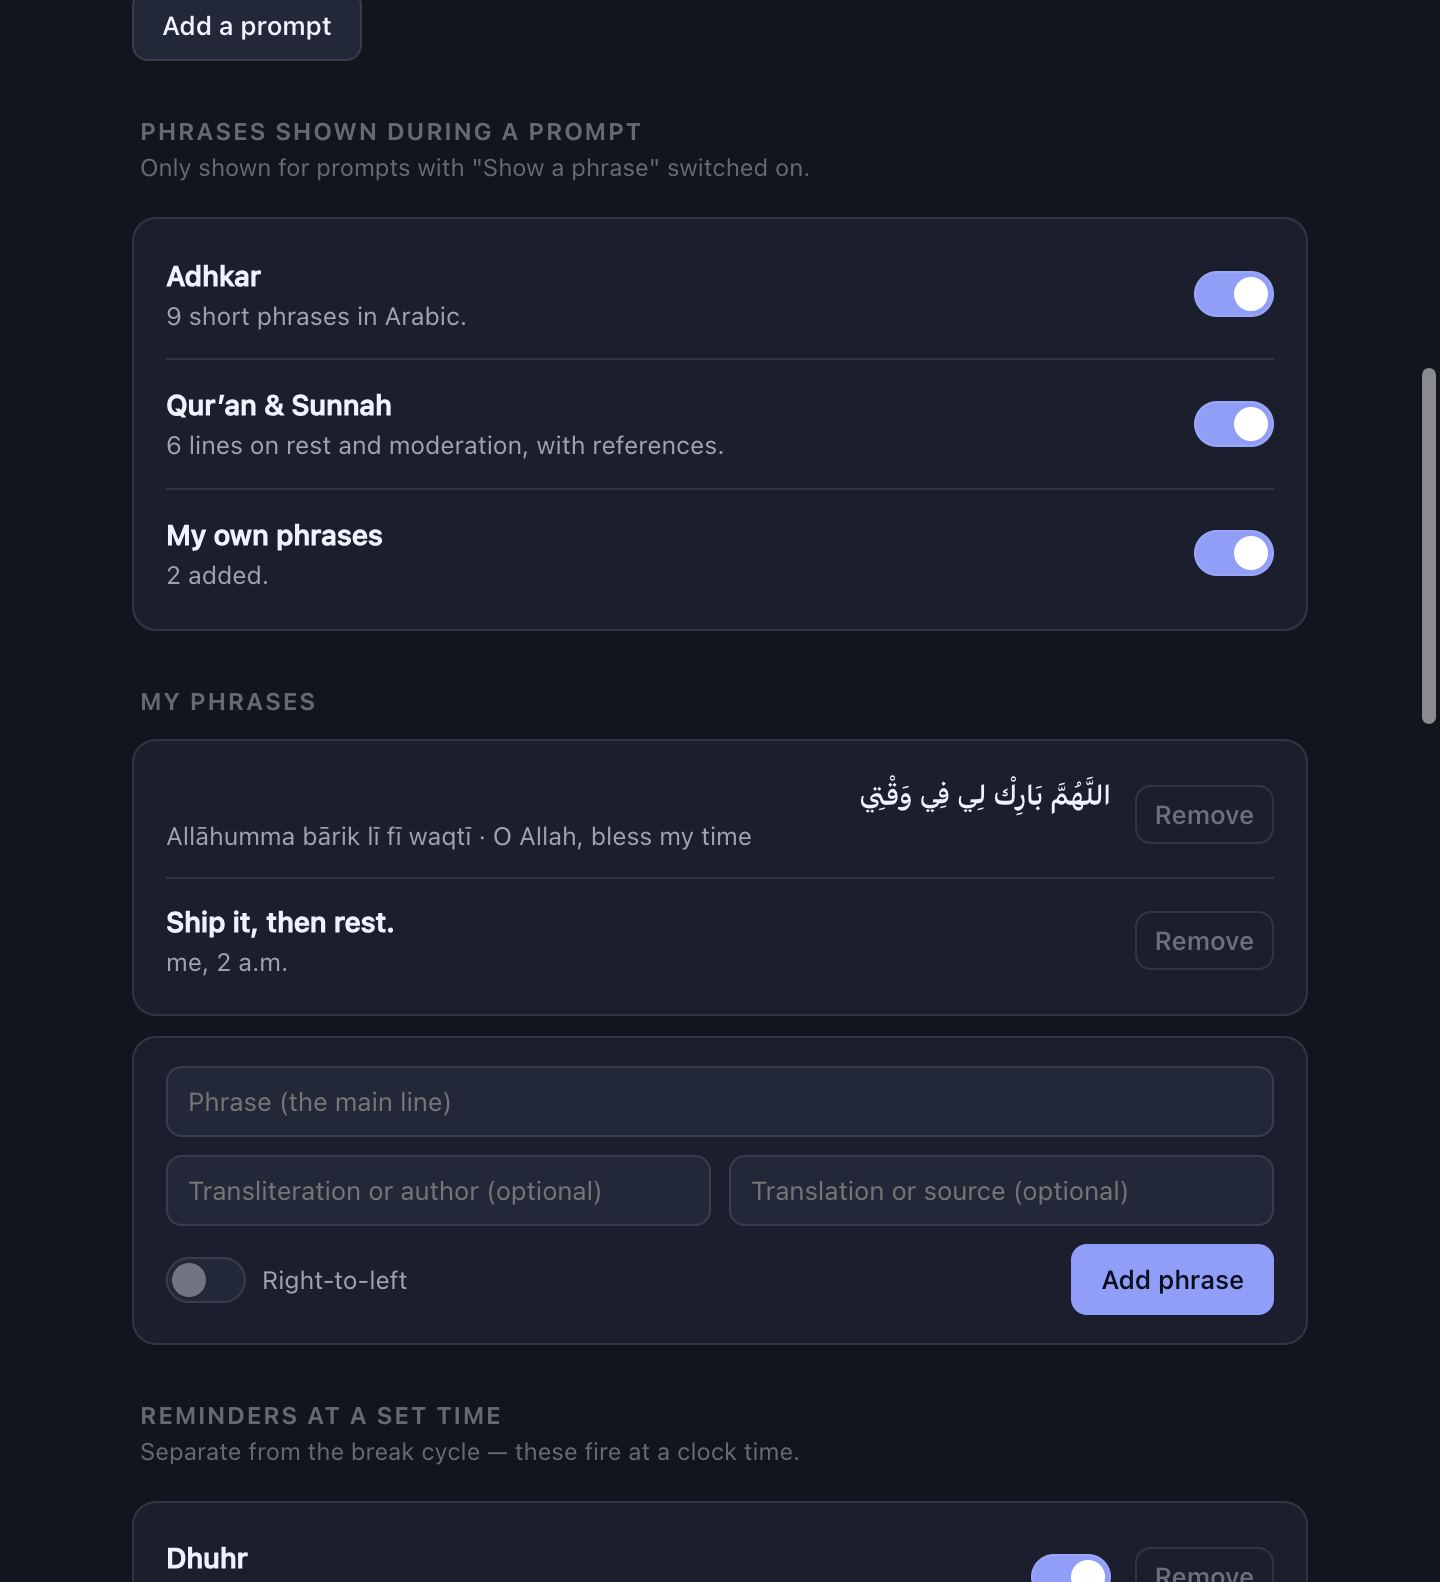
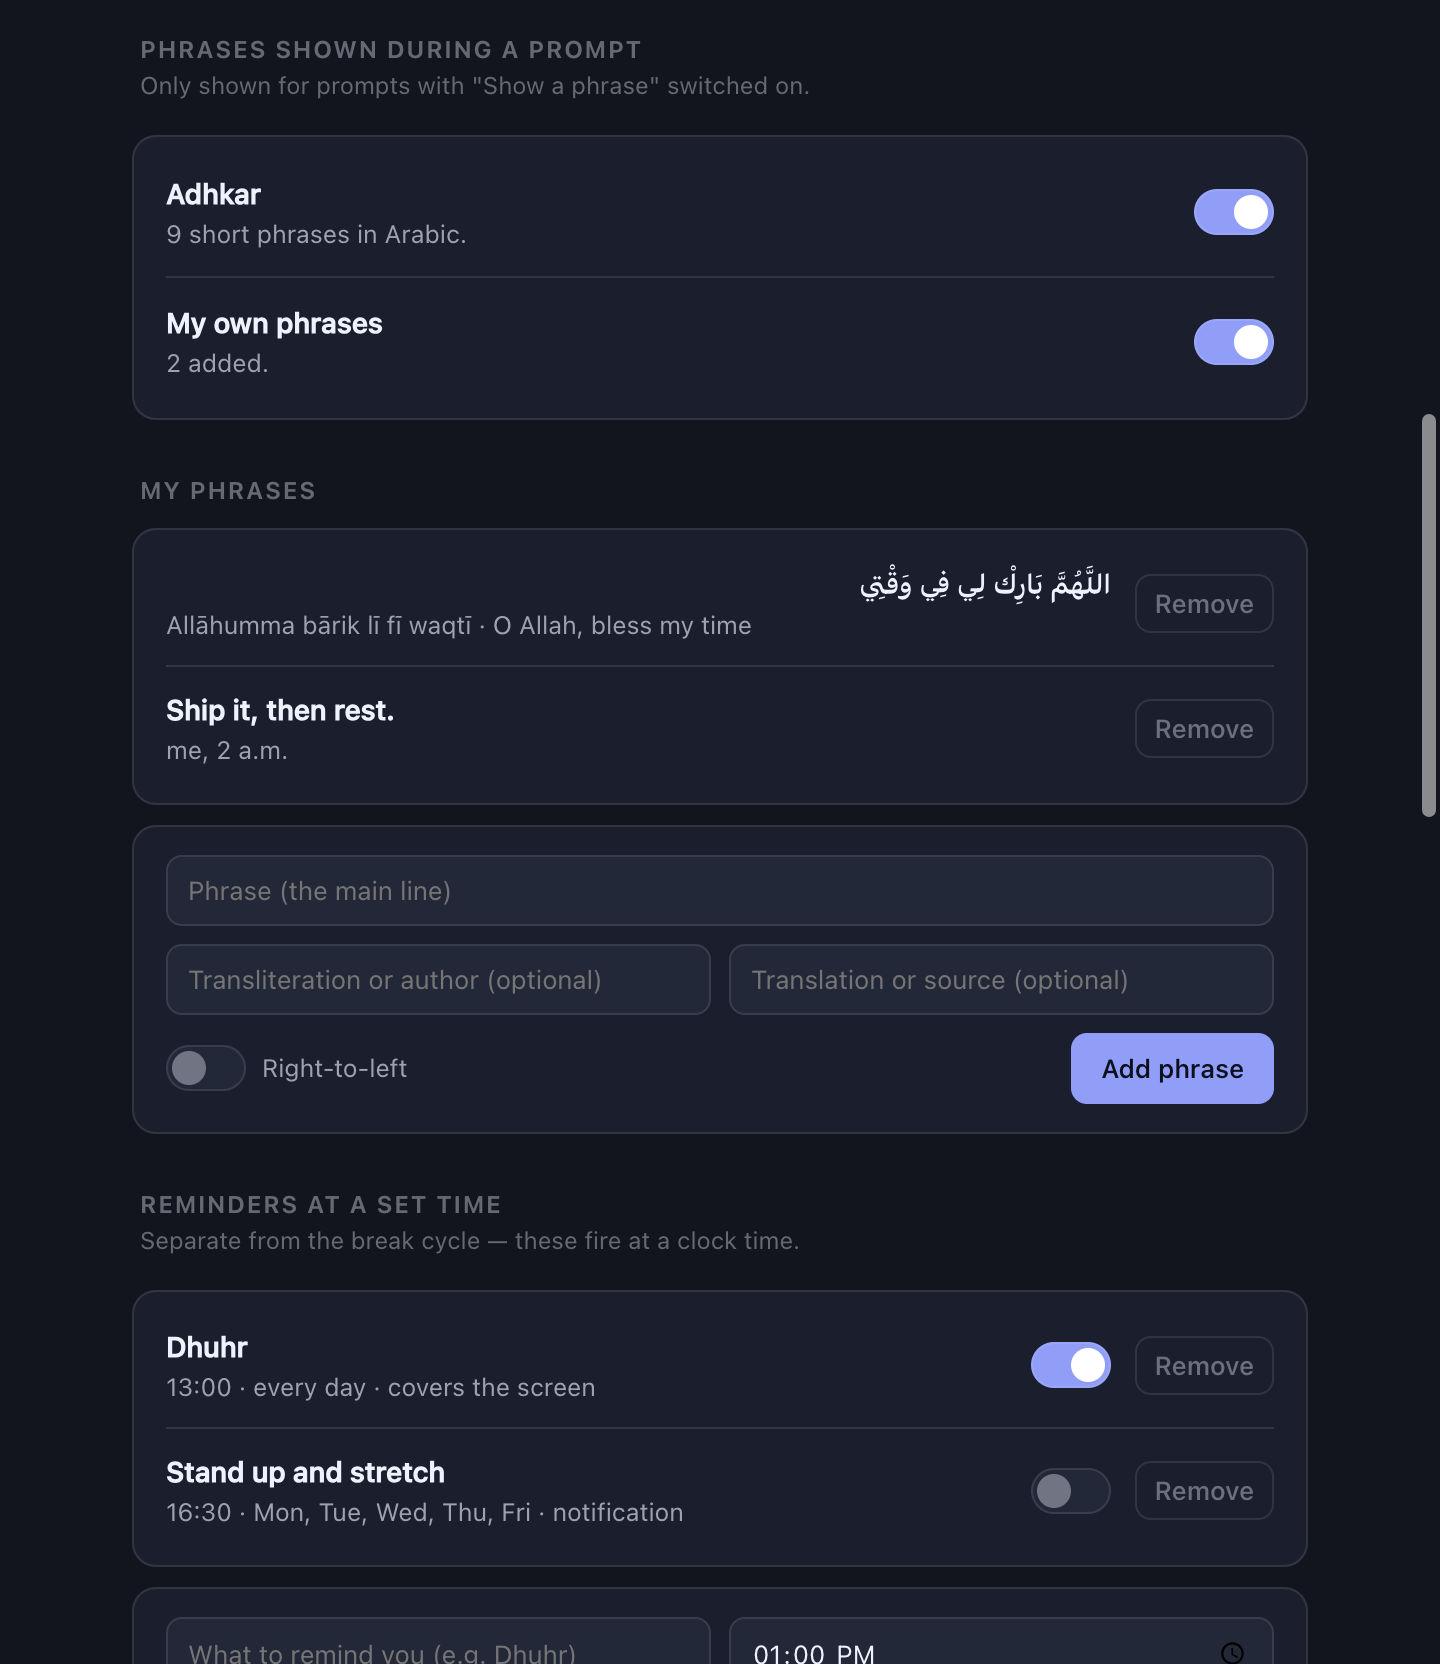
personal: adhkar only, and a share image
Dropping the Qur'an and Sunnah pack added last commit. Adhkar and my own
phrases are the two that stay; that is all this needed.

The verified sources and the record of what was rejected stay in git history
if I want them back — nothing was lost, it just does not ship.

Adds docs/share/sakina-personal.png: the dhikr break, a movement prompt, and
the prayer list, for showing people what this actually is. Screenshots reshot
to match, with all five prayers on rather than Maghrib arbitrarily off.

diff --git a/src/main/reminders.js b/src/main/reminders.js
@@ -23,45 +23,7 @@ const ADHKAR = [
 }));
 
 
-// Verified line by line against sunnah.com and quran.com: wording, collection
-// number, and grading each checked before anything went in here. Deliberately
-// left OUT, having been checked and failed:
-//
-//   "اعمل لدنياك كأنك تعيش أبدا..."  Not a hadith. Al-Albani: la asla lahu
-//       marfu'an — no basis as a report from the Prophet. It circulates as a
-//       saying of Abdullah ibn Amr. It is also about dunya versus akhira, so on
-//       a break screen it would read as "work harder" — the opposite of this.
-//   "خير الأمور أوسطها"  Not established in the six books; authentic only as a
-//       mawquf saying of Mutarrif ibn Abdullah and Abu Qilaba.
-//   Qur'an 20:2  Genuine, but it is addressed to the Prophet about revelation,
-//       and it ends mid-clause — the thought completes in 20:3. Quoted alone on
-//       a screen it becomes generic reassurance the ayah does not offer.
-//   Qur'an 9:40  The sakina verse. Tempting, given the app's name, but it is
-//       about the cave and the Prophet's companion, not about rest.
-const SUNNAH = [
-  ['فَإِنَّ لِجَسَدِكَ عَلَيْكَ حَقًّا',
-   'Fa-inna li-jasadika ʿalayka ḥaqqan',
-   'Your body has a right over you. · Sahih al-Bukhari 1975'],
-  ['إِنَّ الدِّينَ يُسْرٌ',
-   'Inna al-dīna yusrun',
-   'Religion is easy. · Sahih al-Bukhari 39'],
-  ['وَأَنَّ أَحَبَّ الأَعْمَالِ أَدْوَمُهَا إِلَى اللَّهِ، وَإِنْ قَلَّ',
-   'Wa-anna aḥabba al-aʿmāli adwamuhā ilā Allāhi, wa-in qall',
-   'The most beloved deed to Allah is the most constant, even if little. · Sahih al-Bukhari 6464'],
-  ['وَجَعَلْنَا نَوْمَكُمْ سُبَاتًا',
-   'Wa-jaʿalnā nawmakum subātā',
-   'And made your sleep a means for rest. · Qur’an 78:9 (Saheeh International)'],
-  ['وَهُوَ ٱلَّذِى جَعَلَ لَكُمُ ٱلَّيْلَ لِبَاسًا وَٱلنَّوْمَ سُبَاتًا',
-   'Wa-huwa alladhī jaʿala lakumu al-layla libāsan wa-al-nawma subātā',
-   'And it is He who has made the night for you as clothing, and sleep a means for rest. · Qur’an 25:47 (Saheeh International)'],
-  ['وَمِن رَّحْمَتِهِۦ جَعَلَ لَكُمُ ٱلَّيْلَ وَٱلنَّهَارَ لِتَسْكُنُوا۟ فِيهِ',
-   'Wa-min raḥmatihi jaʿala lakumu al-layla wa-al-nahāra li-taskunū fīhi',
-   'In His mercy He has given you night and day, so that you may rest. · Qur’an 28:73 (Abdel Haleem)'],
-].map(([primary, secondary, meaning], i) => ({
-  id: `sunnah-${i}`, pack: 'sunnah', primary, secondary, meaning, rtl: true,
-}));
-
-const BUILT_IN = { adhkar: ADHKAR, sunnah: SUNNAH };
+const BUILT_IN = { adhkar: ADHKAR };
 
 function custom() {
   return store.load().customPhrases.map((p, i) => ({
@@ -79,7 +41,6 @@ function active() {
   const s = store.load();
   const pool = [];
   if (s.packs.adhkar) pool.push(...ADHKAR);
-  if (s.packs.sunnah) pool.push(...SUNNAH);
   if (s.packs.custom) pool.push(...custom());
   return pool;
 }
@@ -101,4 +62,4 @@ function peek() {
   return pool[(store.load().cursor + 1) % pool.length];
 }
 
-module.exports = { BUILT_IN, active, advance, peek, ADHKAR, SUNNAH };
+module.exports = { BUILT_IN, active, advance, peek, ADHKAR };

diff --git a/scripts/shoot.js b/scripts/shoot.js
@@ -23,7 +23,7 @@ const state = {
         subtitle: 'If you cannot, you were not reading it.',
         intervalMin: 90, durationSec: 30, showPhrase: false, enabled: false },
     ],
-    packs: { adhkar: true, sunnah: true, custom: true },
+    packs: { adhkar: true, custom: true },
     customPhrases: [
       { id: 'a', primary: 'اللَّهُمَّ بَارِكْ لِي فِي وَقْتِي', secondary: 'Allāhumma bārik lī fī waqtī', meaning: 'O Allah, bless my time', rtl: true },
       { id: 'b', primary: 'Ship it, then rest.', secondary: 'me, 2 a.m.', meaning: '', rtl: false },
@@ -38,11 +38,11 @@ const state = {
                 lat: 43.876, lon: -69.634, tz: 'America/New_York' },
     prayer: {
       enabled: true, method: 'NorthAmerica', madhab: 'shafi',
-      alerts: { fajr: true, dhuhr: true, asr: true, maghrib: false, isha: true },
+      alerts: { fajr: true, dhuhr: true, asr: true, maghrib: true, isha: true },
       style: 'notification', preWarnMin: 10, showInMenuBar: true,
     },
   },
-  builtIn: { adhkar: reminders.ADHKAR, sunnah: reminders.SUNNAH },
+  builtIn: { adhkar: reminders.ADHKAR },
   platform: process.platform,
   version: '1.1.0',
 };
@@ -72,7 +72,7 @@ const shots = [
   ['break-adhkar', 'src/renderer/break/index.html', 1440, 900, {
     durationSec: 20, strictMode: false, title: 'Look away',
     subtitle: 'Focus on something about 20 feet (6 m) away until the ring closes.',
-    phrase: reminders.SUNNAH[0],
+    phrase: reminders.ADHKAR[0],
   }],
   ['break-walk', 'src/renderer/break/index.html', 1440, 900, {
     durationSec: 60, strictMode: false, title: 'Stand up and walk',

diff --git a/src/renderer/settings/settings.js b/src/renderer/settings/settings.js
@@ -316,12 +316,9 @@ function render() {
   // other control on the page unset.
   const packSize = (name) => ((state.builtIn && state.builtIn[name]) || []).length;
   el('adhkar-count').textContent = `${packSize('adhkar')} short phrases in Arabic.`;
-  el('sunnah-count').textContent =
-    `${packSize('sunnah')} lines on rest and moderation, with references.`;
   el('custom-count').textContent = `${s.customPhrases.length} added.`;
 
   el('pack-adhkar').checked = s.packs.adhkar;
-  el('pack-sunnah').checked = s.packs.sunnah;
   el('pack-custom').checked = s.packs.custom;
 
   for (const key of ['skipWhenAway', 'waitWhilePresenting', 'strictMode', 'playSound', 'launchAtLogin']) {
@@ -349,7 +346,7 @@ function render() {
 }
 
 function wire() {
-  for (const [id, key] of [['pack-adhkar', 'adhkar'], ['pack-sunnah', 'sunnah'], ['pack-custom', 'custom']]) {
+  for (const [id, key] of [['pack-adhkar', 'adhkar'], ['pack-custom', 'custom']]) {
     el(id).addEventListener('change', (e) =>
       commit({ packs: { ...state.settings.packs, [key]: e.target.checked } }));
   }

diff --git a/src/renderer/settings/index.html b/src/renderer/settings/index.html
@@ -31,10 +31,6 @@
           <input type="checkbox" id="pack-adhkar">
         </div>
         <div class="row">
-          <div class="label"><b>Qur’an &amp; Sunnah</b><span id="sunnah-count"></span></div>
-          <input type="checkbox" id="pack-sunnah">
-        </div>
-        <div class="row">
           <div class="label"><b>My own phrases</b><span id="custom-count"></span></div>
           <input type="checkbox" id="pack-custom">
         </div>

diff --git a/src/main/store.js b/src/main/store.js
@@ -23,7 +23,7 @@ const DEFAULTS = {
   // migrated into a prompt on first load; nothing reads them afterwards.
   workIntervalMin: 20,
   breakDurationSec: 20,
-  packs: { adhkar: true, sunnah: true, custom: true },
+  packs: { adhkar: true, custom: true },
   customPhrases: [],
   cursor: -1,
   skipWhenAway: true,

diff --git a/src/main/index.js b/src/main/index.js
@@ -297,7 +297,7 @@ function refreshTray() {
 
 ipcMain.handle('settings:get', () => ({
   settings: store.load(),
-  builtIn: { adhkar: reminders.ADHKAR, sunnah: reminders.SUNNAH },
+  builtIn: { adhkar: reminders.ADHKAR },
   platform: process.platform,
   version: app.getVersion(),
   loginItemBlocked,

diff --git a/README.md b/README.md
@@ -172,23 +172,7 @@ A prompt can optionally show a rotating **phrase** underneath its title:
 
 - **Adhkar** — 9 short phrases in Arabic, with transliteration and translation,
   short enough to say two or three times with your eyes off the screen.
-- **Qur'an & Sunnah** — 6 lines on rest, the body's rights, and not
-  overburdening yourself, each with its reference.
 - **Your own** — any text, with an optional right-to-left toggle.
-
-Everything in that second pack was checked before it went in: wording, book and
-number, and grading. Four candidates were checked and **rejected**, which is
-worth recording because the first two are quoted constantly:
-
-| Rejected | Why |
-| --- | --- |
-| *"اعمل لدنياك كأنك تعيش أبداً…"* | Not a hadith. Al-Albani: *lā aṣla lahu marfūʿan* — no basis as a report from the Prophet. It is also about dunyā versus ākhira, so on a break screen it would read as *work harder*. |
-| *"خير الأمور أوسطها"* | Not established in the six books; authentic only as a *mawqūf* saying of Muṭarrif ibn ʿAbdullāh and Abū Qilāba. |
-| Qur'an 20:2 | Genuine, but addressed to the Prophet about revelation, and it ends mid-clause — the thought completes in 20:3. |
-| Qur'an 9:40 | The *sakīna* verse. Tempting given the name, but it is about the cave, not about rest. |
-
-If a line cannot be traced to a collection with a grading, it does not go on the
-screen. Getting this wrong matters more than shipping the feature.
 
 Phrases rotate **in order** so you see the whole set instead of the same two
 lines all morning.
